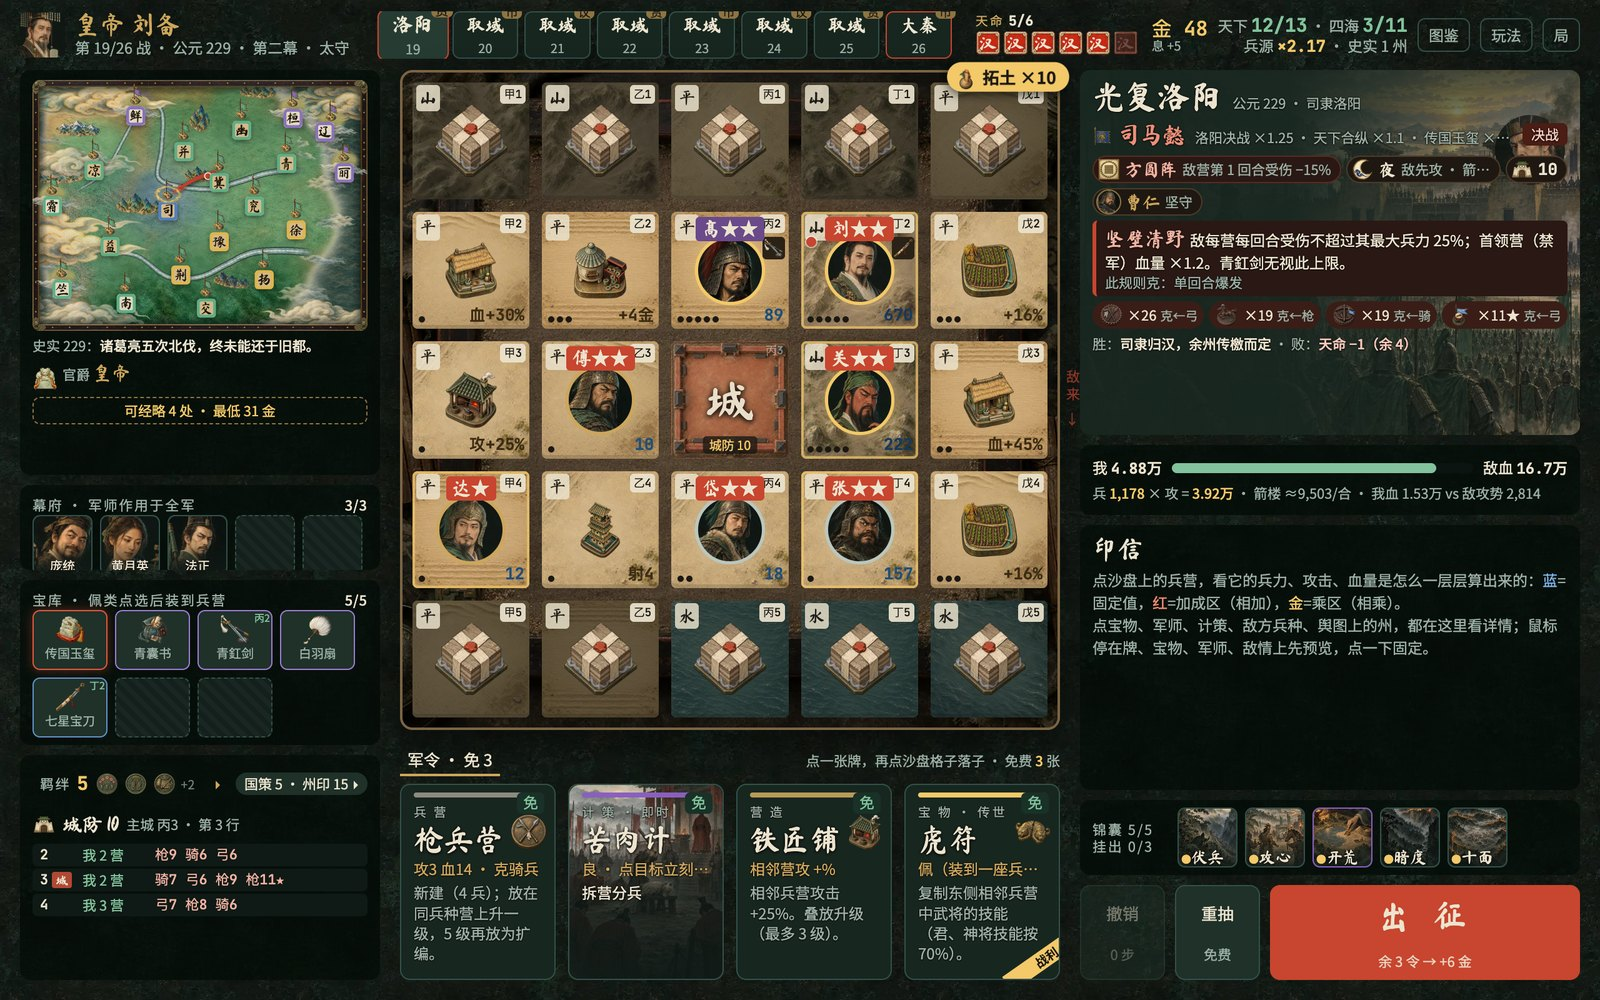
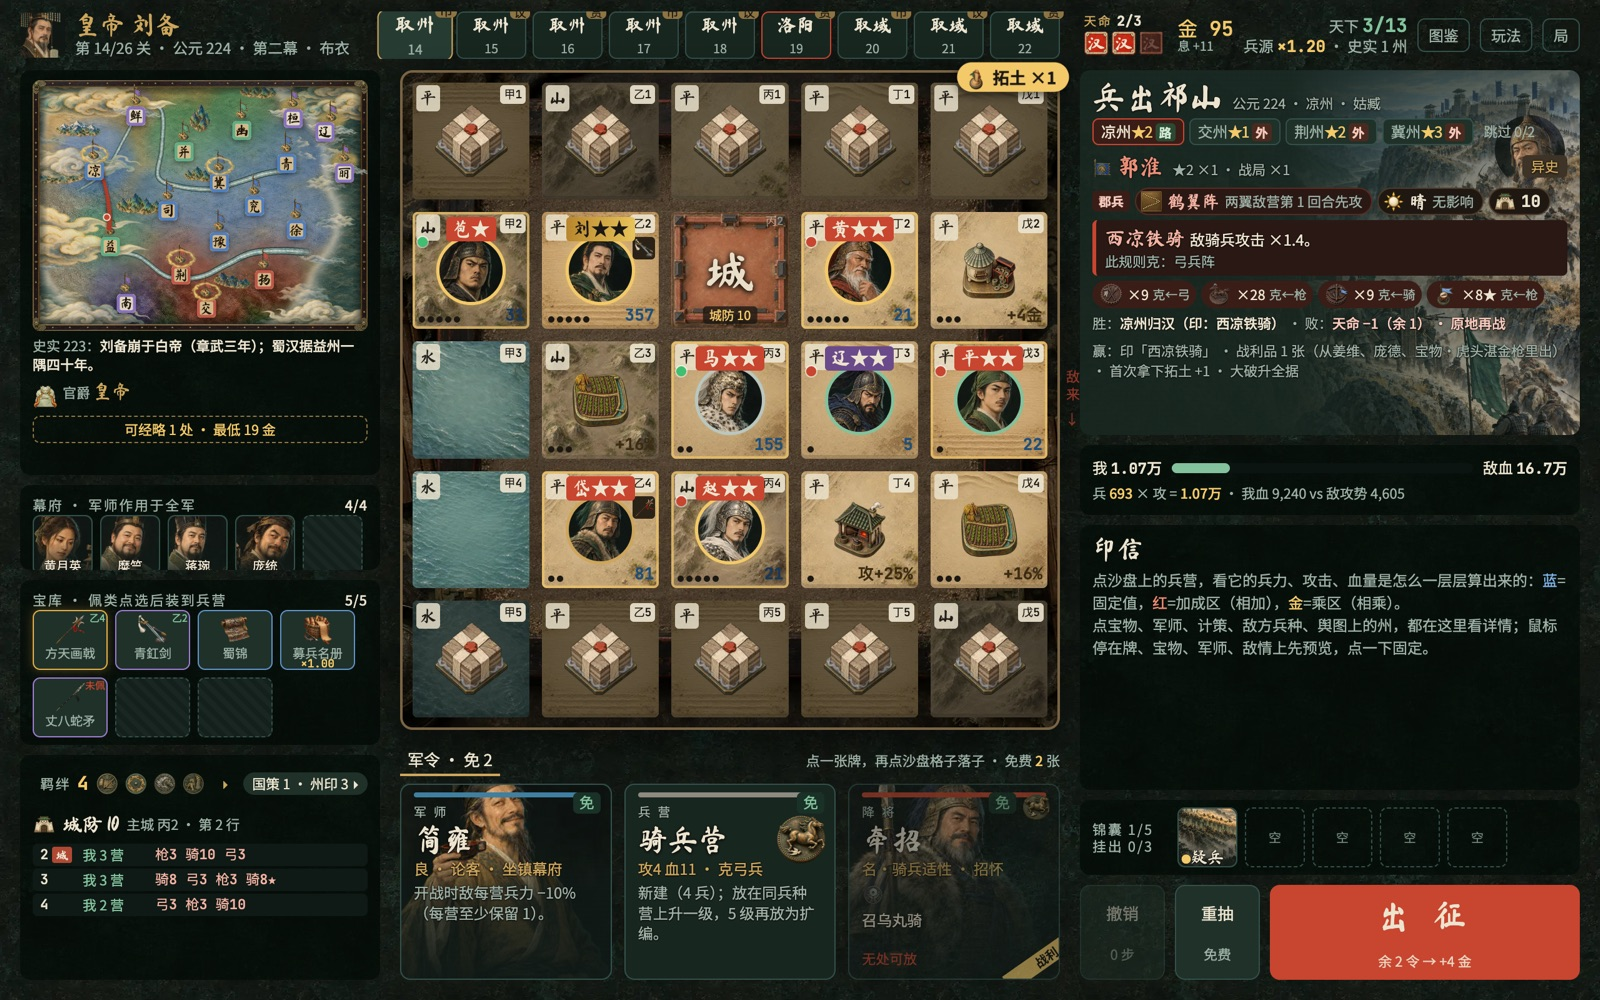
README：v0.10.1（新规则简介、下载链接、版本记录、老存档说明）；备战截图换成 v0.10.1，新增开战（主城）与选官阶两张

diff --git a/README.md b/README.md
@@ -5,16 +5,26 @@ Qunxiong 是开发代号，正式名还没定。
 一款三国题材的肉鸽策略游戏。在沙盘格子上摆兵营、武将和军师，战斗自动进行，加成与倍率层层叠加。刘备从白身起家：
 
 - 第一幕沿他一生的 12 场战役打，史实里的败仗打赢了就改写历史。
-- 第二幕逐州一统天下，第三幕远征四海。
+- 第二幕在舆图上逐州攻取、光复洛阳，第三幕远征四海、决战大秦。每座城都标了星级，星级越高越强，奖励也越多。
 - 第四幕「万国」一路打到欧罗巴、非洲和新大陆，之后是无尽的「万世」。
+
+赢了才前进；输了扣 1 点天命，原地再战这一关。天命最多 3 点，用完这一局就结束。官阶从布衣起步，在一级通关大秦才解锁下一级，越往上越难。
 
 这是开发中的试玩版，数值和界面还会改。
 
 ## 截图
 
-备战：在沙盘格子上摆兵营、放武将、佩宝物、挂计策，右边是这一战的敌情。
+备战：在沙盘格子上摆兵营、放武将、佩宝物、挂计策。右边是这一关要打的城：可选的城与星级、默认路线（「路」）、敌军档位、阵法与天时，还有赢了能拿到什么。
 
 ![备战](screenshots/01-prep.jpg)
+
+开战：战斗自动进行，敌军从右边来。阵中的城楼是主城；哪一行没有我军挡着，那一行的敌军就去攻城，城防归零即城破。
+
+![开战](screenshots/06-city.jpg)
+
+选官阶：官阶越高，敌军越强、规则越严，每升一级敌我两边各多一条规则。在一级通关大秦，解锁下一级。
+
+![选官阶](screenshots/05-ranks.jpg)
 
 点兵结算：出征时逐营亮出算式（兵力 × 攻击 × 加成 × 倍率），汇成全军攻势，与敌军总血对撞。
 
@@ -28,16 +38,16 @@ Qunxiong 是开发代号，正式名还没定。
 
 ![第四幕万国](screenshots/04-wanguo.jpg)
 
-截图来自 v0.9.2。
+前三张截图来自 v0.10.1，后三张来自 v0.9.2。
 
 ## 下载
 
-最新版是 **v0.9.2**（2026-09-27）：
+最新版是 **v0.10.1**（2026-09-28）：
 
 | 系统 | 下载 |
 |---|---|
-| Mac（Apple 芯片） | [Qunxiong-0.9.2-arm64.dmg](https://github.com/gangchen/qunxiong-releases/releases/download/v0.9.2/Qunxiong-0.9.2-arm64.dmg) |
-| Windows（64 位） | 安装版 [Qunxiong-0.9.2-x64-setup.exe](https://github.com/gangchen/qunxiong-releases/releases/download/v0.9.2/Qunxiong-0.9.2-x64-setup.exe)（推荐）；免安装版 [Qunxiong-0.9.2-x64.zip](https://github.com/gangchen/qunxiong-releases/releases/download/v0.9.2/Qunxiong-0.9.2-x64.zip) |
+| Mac（Apple 芯片） | [Qunxiong-0.10.1-arm64.dmg](https://github.com/gangchen/qunxiong-releases/releases/download/v0.10.1/Qunxiong-0.10.1-arm64.dmg) |
+| Windows（64 位） | 安装版 [Qunxiong-0.10.1-x64-setup.exe](https://github.com/gangchen/qunxiong-releases/releases/download/v0.10.1/Qunxiong-0.10.1-x64-setup.exe)（推荐）；免安装版 [Qunxiong-0.10.1-x64.zip](https://github.com/gangchen/qunxiong-releases/releases/download/v0.10.1/Qunxiong-0.10.1-x64.zip) |
 
 历次版本都在 [Releases](https://github.com/gangchen/qunxiong-releases/releases)，每一版的发布说明里写了改动和 SHA-256 校验值。
 
@@ -79,6 +89,7 @@ xattr -dr com.apple.quarantine /Applications/Qunxiong.app
 
 ## 版本记录
 
+- **v0.10.1**（2026-09-28）：推进规则重做：赢了才前进，输了扣 1 点天命、原地再战，天命最多 3 点。第二、三幕的城分星级、有默认路线；敌军分五档（散兵、郡兵、劲旅、名将、决战），名将城有敌方幕僚和宝物。官阶改为进阶式，从布衣起逐级解锁。宝物分随将与随营，备战时可以调将。战场主城换成城楼图，新增 34 张美术。适配 16:9 屏幕。难度按新规则整体重新校准。
 - **v0.9.2**（2026-09-27）：本机排行榜（最远征程、一击封神、最强一战、累计输出、势如破竹，各留前 10 名）；新增 Windows 版（64 位）；安装包不再附带 Steam 组件。
 - **v0.9.1**（2026-09-27）：加入音效与音乐；启动先到标题页；新增设置页（全屏、音量、切到别的窗口时静音、战斗回放速度、出征前的结算演出）和「关于」页。
 - **v0.8.3**（2026-09-27）：行前排与击穿攻城、开局选主城、每战随机的天时 / 阵法 / 副将 / 敌计、第四幕「万国」、备战界面重做、新增 119 张美术。
@@ -89,6 +100,7 @@ xattr -dr com.apple.quarantine /Applications/Qunxiong.app
 - 有音效和配乐。「设置」里可以分别调总音量、音乐和音效；切到别的窗口时默认静音，也可以关掉。
 - 存档只保存在你自己的电脑上：Mac 在 `~/Library/Application Support/Qunxiong`，Windows 在 `%APPDATA%\Qunxiong`。
 - 更新时下载新版，替换旧版即可：Mac 把新版拖进「应用程序」覆盖旧版；Windows 直接运行新版安装程序（免安装版换掉整个文件夹）。存档会保留，新版能读入旧版的存档。
+- v0.9.x 没打完的那一局照旧规则打完，新开的局用新规则。用 v0.10.1 存过档以后，不要再退回 v0.9.x：旧版读不懂新存档，会把它另存起来、从头开始。
 - 下载的文件可以用每个版本发布说明里的 SHA-256 核对：Mac 在「终端」里运行 `shasum -a 256 <文件名>`，Windows 在 PowerShell 里运行 `Get-FileHash <文件名>`。
 
 ## 反馈
